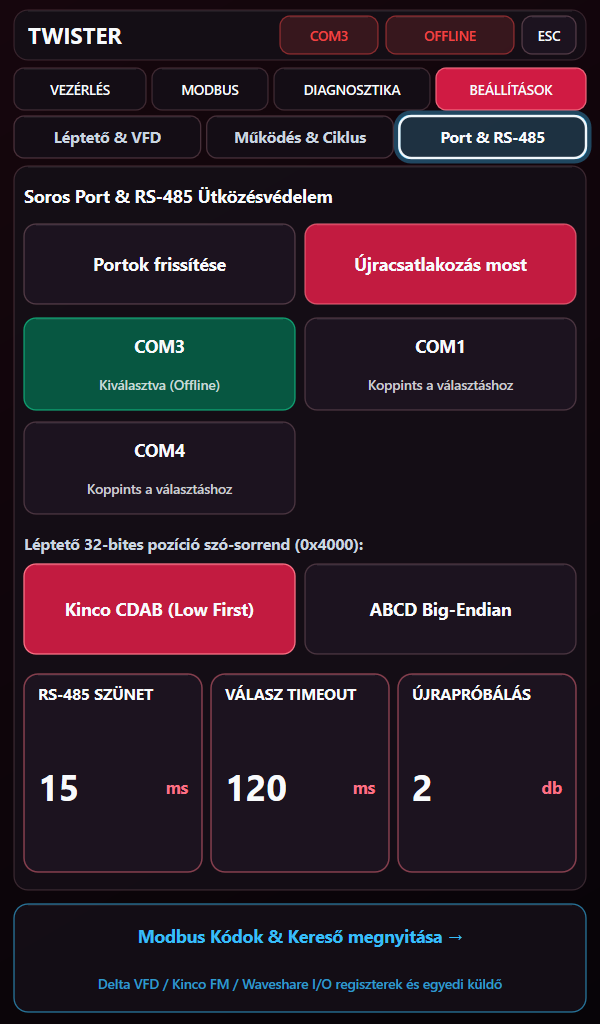
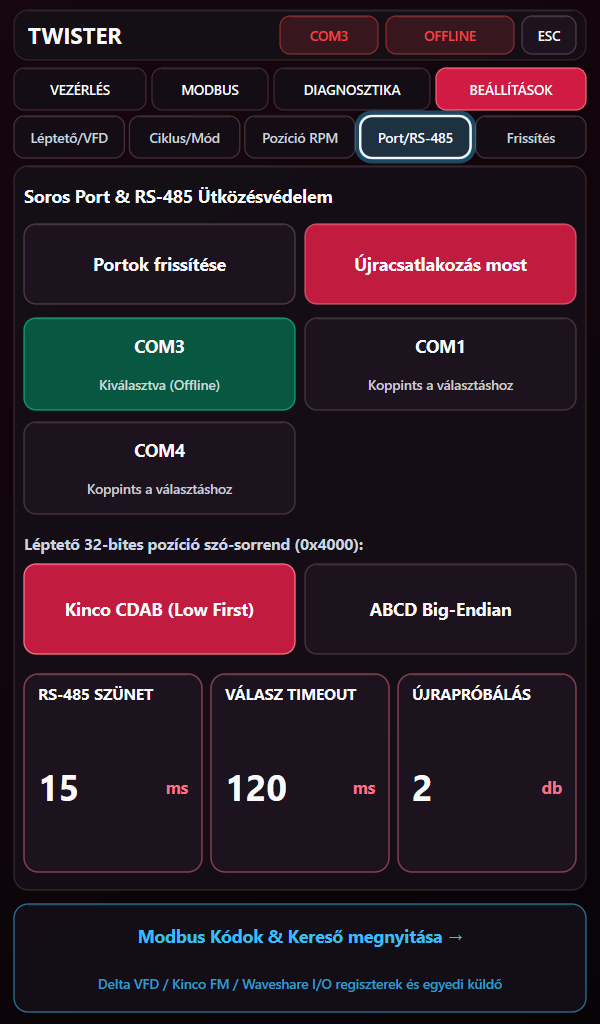
docs: publish README updates and screenshots

Changed region(s): [[0.39, 0.0938, 0.99, 0.1875], [0.06, 0.125, 0.36, 0.1562]]

diff --git a/README.md b/README.md
@@ -51,7 +51,7 @@ Nincs felugró képernyő-billentyűzet — közvetlenül a rendes billentyűzet
 | :--- | :--- |
 | **`TWISTER`** | A program neve. |
 | **`COM3`** *(port gomb)* | Zöld, ha a soros port sikeresen csatlakozva van; piros, ha nem érhető el. Rákattintva rögtön a **`BEÁLLÍTÁSOK → Port & RS-485`** aloldalra ugrik, ahol portot választhatsz. |
-| **`ZÖLD = KÜLDÉS`** *(sárga jelző)* | Csak akkor jelenik meg, ha **futó program közben** módosítottál valamit a képernyőn. A fizikai **Zöld gomb** megnyomásáig várakozik a változtatások biztonságos kiküldésével. |
+| **`ZÖLD = KÜLDÉS`** *(sárga jelző)* | Csak akkor jelenik meg, ha **futó program közben** módosítottál valamit a képernyőn. A fizikai **Zöld gomb** megnyomásáig várakozik a változtatások biztonságos kiküldésével. *(Ha épp nincs futó módosítás, de van új GitHub verzió, itt jelenik meg a kattintható **`ÚJ v...`** gomb.)* |
 | **Állapotjelző doboz** | A gép pillanatnyi állapota:<br>• **`OFFLINE`** (piros): nincs nyitott soros port<br>• **`KÉSZENLÉT`** (sárga): áll a gép, várja az indítást<br>• **`INDÍTÁS...`** (sárga): relék ellenőrzése/kapcsolása, frekiváltók bebootolása és felpörgése<br>• **`ÜZEMEL`** (zöld) / **`JÓVÁHAGYÁS?`** (sárga) / **`JÓVÁHAGYVA`** (zöld) / **`VÉGÉN LEÁLL`** (rózsaszín): forognak a motorok és megy a léptetőmotor-ciklus; **`Jóváhagyással`** módban a program vége előtti beállított időnél (`VILLOGÁS ELŐTTE`, alap `5 perc`) **`JÓVÁHAGYÁS?`** látható és villog a zöld lámpa<br>• **`JOG MÓD`** (kék): Piros + Zöld hosszú nyomva tartásával aktív lassú kézi/ellenőrző járatás<br>• **`LEÁLLÍTÁS`** (piros): motorok leállítása és léptető Home-ba küldése<br>• **`HIBA`** (piros): hiba történt (pl. port vagy meghajtó hiba — részletek a `DIAGNOSZTIKA` naplóban) |
 | **`ESC` / `FULL` gomb** | Vált teljes képernyős és ablakos mód között (ugyanazt csinálja, mint az `ESC` billentyű). |
 | **4 fő oldalválasztó fül** | **`VEZÉRLÉS`** • **`MODBUS`** • **`DIAGNOSZTIKA`** • **`BEÁLLÍTÁSOK`** — rákattintva azonnal oldalt vált (ha épp írtál egy mezőbe, előtte elmenti). |
@@ -110,18 +110,18 @@ Ez az oldal szándékosan letisztult, nagy feliratokkal és kevés gombbal, hogy
 #### A) Számítási mód váltó (legfelső két gomb)
 A három fonalparaméter közül kettőt te adsz meg, a harmadikat a gép áttételeiből automatikusan számolja a program:
 * **`Sodrat + Orsó → Henger`** *(aktív = piros)*:
-  - Te írod be az **`ALSÓ GYŰJTŐORSÓ`** fordulatszámát és a **`SODRATSZÁM`**-ot.
-  - A gép kiszámolja a **`FELSŐ ADAGOLÓ HENGER (SZÁMOLT)`** értékét:
-    $$\text{Henger RPM} = \text{Orsó RPM} / \text{Sodratszám}$$ *(egész osztás, pl. `2500 / 120 = 20 RPM`)*
+  - Te írod be az **`ALSÓ GYŰJTŐORSÓ`** fordulatszámát (`RPM`) és a **`SODRATSZÁM`**-ot.
+  - A gép kiszámolja a **`FELSŐ ADAGOLÓ HENGER (SZÁMOLT)`** értékét (`yarn/meter`):
+    $$\text{Henger (yarn/meter)} = \text{Orsó RPM} / \text{Sodratszám}$$ *(egész osztás, pl. `2500 / 120 = 20 yarn/meter`)*
 * **`Orsó + Henger → Sodrat`**:
-  - Te írod be az **`ALSÓ GYŰJTŐORSÓ`** és a **`FELSŐ ADAGOLÓ HENGER`** fordulatszámát.
+  - Te írod be az **`ALSÓ GYŰJTŐORSÓ`** (`RPM`) és a **`FELSŐ ADAGOLÓ HENGER`** (`yarn/meter`) értékét.
   - A gép kiszámolja a **`SODRAT (SZÁMOLT)`** értékét:
-    $$\text{Sodratszám} = \text{Orsó RPM} / \text{Henger RPM}$$
+    $$\text{Sodratszám} = \text{Orsó RPM} / \text{Henger (yarn/meter)}$$
 
 #### B) A 3 nagy paraméterdoboz
 * **`ALSÓ GYŰJTŐORSÓ` (`RPM`):** Mindig szerkeszthető. Ebből számolja a frekiváltó parancsot is: `((Orsó / 118) × 100)` (`0,01 Hz`-es egységben, pl. `2500 → 2100 = 21,00 Hz`).
 * **`SODRATSZÁM` (`sodrat`)** *(vagy `SODRAT (SZÁMOLT)`)*: Ha a bal oldali mód aktív, rózsaszín keretes és kattintva szerkeszthető; ha a jobb oldali mód aktív, világoskék keretes (csak kijelző, a program számolja).
-* **`FELSŐ ADAGOLÓ HENGER` (`RPM`)** *(vagy `(SZÁMOLT)`)*: Jobb oldali módban szerkeszthető; bal oldali módban automatikusan számolt (`Henger × 0,96 × 100`, pl. `20 → 1920 = 19,20 Hz`).
+* **`FELSŐ ADAGOLÓ HENGER` (`yarn/meter`)** *(vagy `(SZÁMOLT)`)*: Jobb oldali módban szerkeszthető; bal oldali módban automatikusan számolt (`Henger × 0,96 × 100`, pl. `20 → 1920 = 19,20 Hz`).
 
 #### C) A két folyamatjelző sáv (középen)
 * **`Ciklus` sáv** (`pl. 0 / 23  •  01:18`):
@@ -131,7 +131,10 @@ A három fonalparaméter közül kettőt te adsz meg, a harmadikat a gép átté
   - A szán aktuális helyzetét mutatja a **`0`** és a **`FELSŐ HATÁR`** (`4400`) között, **mínusz előjel nélkül** *(a háttérben továbbra is negatív számmal számol a Kinco vezérlőnek, de a kijelzőn mindig tisztán, előjel nélkül jelenik meg)*.
   - Ha `0x3700` valós pozíció-kiolvasás válaszol, pontosan a motor tényleges elmozdulását követi; visszafelé tekercselésnél pedig lefelé csökken a sáv.
 
-#### D) A két óriás biztonsági gomb (alul)
+#### D) Fonalőr élő sáv és a két óriás biztonsági gomb (alul)
+* **`Fonalőr: BE / KI` & élő fonalőr sáv:** A sorba kötött fonalőr lánc (`IN2` / `0x04` bemenet) élő állapota közvetlenül látható (`KÉSZ`, `BETANULÁS...`, `AKTÍV`, `JOG szünet`, vagy piros `FONALHIBA! VÉSZSTOP`), és egy érintéssel ki-/bekapcsolható:
+  - **Automatikus újratanulás minden gyártásindításkor:** amint a két frekiváltó elérte az üzemi fordulatot, a program `800 ms` alatt megtanulja a lánc stabil nyugalmi szintjét (`0` vagy `1`). Ha indításkor instabil/szakadt a fonalőr jele, hibával vészleáll.
+  - **Okos védelem üzem közben:** `JOG` közben és `JOG`-ból visszapörgés alatt szünetel (nem tilt le lazulásra), normál futásnál viszont `150 ms`-os szűrő után **szoftveres VÉSZSTOP-pal** azonnal megállítja a motorokat és a léptetőt (**Home nélkül**), piros lámpával és hibaüzenettel.
 * **`VÉSZSTOP`** *(óriás piros gomb)*:
   - Bármikor azonnal megszakít minden folyamatot:
     1. Egy paranccsal **lekapcsolja az összes relét** (`02 05 00 FF 00 00`) — elmegy a kontaktor táp és minden lámpa.
@@ -181,11 +184,12 @@ Bármelyik mezőre kattintva közvetlenül átírhatod billentyűzetről (pl. `3
     - **`VFD-M`**: Beállítja az `ACCEL REG = 0x010A` és `DECEL REG = 0x010B` címeket (`Pr.10 / Pr.11`).
     - **`MS300 / C`**: Beállítja az `ACCEL REG = 0x010C` és `DECEL REG = 0x010D` címeket (`Pr.01-12 / 01-13`).
   - **`VFD VEZÉRLŐ`** (`0x2000`), **`FREKVENCIA REG`** (`0x2001`), **`START PARANCS`** (`0x0012`), **`STOP PARANCS`** (`0x0001`), **`HIBA REG`** (`0x2100`), **`ÁLLAPOT`** (`0x2101`), **`KIMENŐ HZ`** (`0x2103`), **`ACCEL REG`** / **`DECEL REG`**.
-* **`Waveshare I/O Bemenetek & Relék (HEX)` (`4×2` nagy gomb):**
+* **`Waveshare I/O Bemenetek & Relék (HEX)`:**
   - **`BEMENET CÍM`** (`0x0000`): Digitális bemenetek kezdőcíme.
   - **`ZÖLD START BIT`** (`0x03`): Indítás / módosítás kiküldése / ciklus jóváhagyása (`IN0=1, IN1=1`).
   - **`PIROS STOP BIT`** (`0x00`): Stop gomb (`IN0=0, IN1=0`).
   - **`JOG BIT (P+Z)`** (`0x02`): Piros + Zöld hosszú gombkombináció (`IN0=0, IN1=1`).
+  - **`FONALŐR BIT`** (`0x04`): A gombok utáni 3. bemenet (`IN2`), a sorba kötött fonalőr lánc bemeneti bitmaszkja *(a gombkezelés maszkolja ezt a bitet, így nem zavarja a Start/Stop/Jog működését)*.
   - **`PIROS LÁMPA`** (`0x0000`), **`ZÖLD LÁMPA`** (`0x0001`), **`VFD TÁP RELÉ`** (`0x0003`), **`ÖSSZES RELÉ`** (`0x00FF`).
 
 #### Aloldal 3: `Egyedi Parancs`
@@ -210,7 +214,7 @@ Szervizhez, közvetlen Modbus RTU próbaküldéshez:
   Az állapotok jelentése: `RUN` = megy, `KÉSZ` = táp alatt áll, `LEFUT` = lassul megállásig, `STOP` = áll, `HIBA` = frekiváltó hibajelzés, `--` = kikapcsolt táp / nem válaszol.
 
 #### `IN0` – `IN7` bemenet-visszajelzők
-A 8 optocsatolt bemenet állapota valós időben (zöld = bemenet aktív/zárt, sötét = nyitott).
+A 8 optocsatolt bemenet állapota valós időben (zöld = bemenet aktív/zárt, sötét = nyitott; a **`*`** jelölésű csatorna, alapból **`IN2*`**, a fonalőr bemenete).
 
 #### A 6 tesztgomb (külön-külön kipróbáláshoz)
 * **`Poz +200` (`Küldés`):** Elküldi a `+200`-as célpozíciót a léptetőnek (önmagában még nem indítja a motort, vagy előkészíti a pozíciót).
@@ -231,9 +235,9 @@ A 8 optocsatolt bemenet állapota valós időben (zöld = bemenet aktív/zárt, 
 
 ---
 
-### 4. oldal: `BEÁLLÍTÁSOK` *(3 tágas aloldalra bontva)*
+### 4. oldal: `BEÁLLÍTÁSOK` *(5 tágas aloldalra bontva)*
 
-A kényelmes, nagy gombos érintéshez minden paraméter 3 átlátható aloldalon kapott helyet:
+A kényelmes, nagy gombos érintéshez minden paraméter 5 átlátható aloldalon kapott helyet:
 
 #### Aloldal 1: `Léptető & VFD`
 
@@ -253,17 +257,19 @@ A kényelmes, nagy gombos érintéshez minden paraméter 3 átlátható aloldalo
   - **`ORSÓ FELFUTÁS` / `ORSÓ LEFUTÁS`** (`2000 ms`): Alsó orsó fel- és lefutási ideje (`0 = VFD alap`).
   - **`HENGER FELFUTÁS` / `HENGER LEFUTÁS`** (`2000 ms`): Felső henger fel- és lefutási ideje (`0 = VFD alap`).
 
-#### Aloldal 2: `Működés & Ciklus`
+#### Aloldal 2: `Ciklus & Mód`
 
-![BEÁLLÍTÁSOK Működés, Jóváhagyás és Visszafutás](docs/images/beallitasok_visszafele.png)
+![BEÁLLÍTÁSOK Ciklus és Mód](docs/images/beallitasok_visszafele.png)
 
-* **`Állapotgép, Home & Kijelző` (`3×2` kapcsoló):**
+* **`Állapotgép, Fonalőr, Home & Kijelző`:**
   - **`Léptető állapotgép (0x3200): BE / KI`:** `BE` esetén `0x3200` + `0x3700` figyelés, válaszkimaradáskor automatikus váltás `Tartalék lépésidő`-re.
   - **`VFD állapotgép (0x2101): BE / KI`:** `BE` esetén tényleges beindulás, célfordulat-elérés és `0 Hz` lefutás figyelése.
   - **`Home leállításkor: BE / KI`:** Leállításkor előbb Home-ba küldi a léptetőt.
   - **`Home mód: Pozíció 0` vs `CiA-402 (0x3500)`:** Pozíció nullázás (`0x4000=0`) vagy végálláskereső homing (`0x3500=6`).
   - **`Teljes képernyőn indul: BE / KI`:** Automatikus fullscreen indításkor.
   - **`Tartalék lépésidő: 3000 ms`:** Rákattintva szerkeszthető tartalék várakozási idő, ha `0x3200` nem válaszol.
+  - **`Fonalőr: BE / KI`:** Ki- vagy bekapcsolja a sorba kötött fonalőr figyelését *(minden indításnál újra betanulja a jó jelszintet, JOG alatt szünetel, hiba esetén Vészstoppal áll meg Home nélkül)*.
+  - **`TANÍTÁS IDŐ` (`800 ms`) & `SZŰRŐ IDŐ` (`150 ms`):** A VFD felpörgése utáni tanulási ablak hossza (`200..5000 ms`), illetve a futás közbeni zavar-/prellszűrő késleltetése (`40..3000 ms`).
 * **`Ciklus Vége, Jóváhagyás & Visszafutás`:**
   - **`Ciklus végén (felső határ elérésekor):` (3 nagy gomb):**
     1. **`Leáll (1:1)`** *(zöld)*: 1 menet után biztonságosan leáll + Home. *(Zöld lámpa nem villog.)*
@@ -280,7 +286,20 @@ A kényelmes, nagy gombos érintéshez minden paraméter 3 átlátható aloldalo
     - **`Teljesen nulláig` (`0`):** `0 ↔ 4400` teljes oda-vissza ciklus.
     - **`Középpontig` (`2200`):** Első menetben `0 → 4400`, utána folyamatosan **`2200 ↔ 4400`** között jár oda-vissza.
 
-#### Aloldal 3: `Port & RS-485`
+#### Aloldal 3: `Pozíció RPM`
+
+![BEÁLLÍTÁSOK Pozíció-alapú Orsó Fordulat](docs/images/beallitasok_zona.png)
+
+Opcionális sebességzóna, amellyel beállítható, hogy egy elért szánpozíció felett másik fordulatszámon forogjon az orsó:
+* **`Felső pozíció fordulat: BE / KI`:** Egy gombnyomással ki- vagy bekapcsolható (alapból `KI`).
+* **`VÁLTÁS POZÍCIÓ` (`1000 poz`):** Ettől a pozíciótól felfelé egészen a `FELSŐ HATÁR`-ig (`1000 – 4400` között) lép érvénybe a másik fordulatszám.
+* **`ZÓNA ORSÓ RPM` (`2000 RPM`):** Az alsó gyűjtőorsó fordulatszáma a felső zónában; a **felső adagoló hengert az aktív sodratszám alapján automatikusan újraszámolja** hozzá a program (`pl. 2000 / 120 = 16 yarn/meter`).
+* **Működés felfelé és visszafelé:**
+  - `0 → 999 poz` között az alap fordulattal (`pl. 2500 RPM`) megy; **`1000 poz` elérésekor átvált `2000 RPM`-re** egészen `4400`-ig.
+  - **Visszafelé módban fordított logikával:** fentről (`4400`) indulva `1000`-ig továbbra is `2000 RPM`-mel halad (mert még a `[1000..4400]` zónában van), majd **`1000` alá visszaérve visszavált az alap `2500 RPM`-re** (`0`-ig).
+  - Menet közbeni `Zöld gomb`-os módosítás és `JOG` elengedés után is azonnal az aktuális pozíciónak megfelelő zónafordulatra áll be.
+
+#### Aloldal 4: `Port & RS-485`
 
 ![BEÁLLÍTÁSOK Soros Port és RS-485](docs/images/beallitasok_port.png)
 
@@ -289,6 +308,32 @@ A kényelmes, nagy gombos érintéshez minden paraméter 3 átlátható aloldalo
 * **`Kinco CDAB (Low First)` vs `ABCD Big-Endian`:** 32-bites léptető pozícióregiszterek szó-sorrendje (`Kinco FM`-hez `CDAB` az alapértelmezett).
 * **`RS-485 SZÜNET` (`15 ms`) / `VÁLASZ TIMEOUT` (`120 ms`) / `ÚJRAPRÓBÁLKOZÁS` (`2 db`):** Ütközésvédelem és automatikus csomag-újraküldés beállításai.
 * **`Modbus Kódok & Kereső megnyitása →`:** Egygombos átugrás a `MODBUS` fülre.
+
+#### Aloldal 5: `Frissítés` *(GitHub Auto-Update, Patch Notes & Visszaállás)*
+
+![BEÁLLÍTÁSOK GitHub Frissítés és Verzió-előzmények](docs/images/beallitasok_frissites.png)
+
+![Patch Notes és Visszaállási Megerősítő Ablak](docs/images/frissites_modal.png)
+
+* **`GITHUB REPO`:** Add meg a publikus GitHub repódat `tulajdonos/repo` formában (vagy illeszd be a teljes `https://github.com/...` címet **`Ctrl+V`**-vel; az `twister_config.ini`-ben a `github_repo=` sor tárolja).
+* **`Indításkor ellenőriz: BE / KI`:** Bekapcsolva minden indításkor csendben ellenőrzi a legújabb GitHub Release-t, és ha van frissebb verzió (álló gép mellett), megjeleníti az **Újdonságok / Patch Notes** ablakot.
+* **Kiadás ellenőrzése és biztonság:**
+  - A **`build-exe.bat`** minden fordításkor elkészíti a **`dist\TwisterControl.exe`** mellett a **`dist\version.json`** fájlt is pontos verzióval és **SHA-256** ellenőrzőösszeggel *(ha létezik `release_notes.txt`, annak szövegét is beleteszi; különben a GitHub Release leírását jeleníti meg Patch Notes-ként)*.
+  - Csere előtt ellenőrzi az SHA-256-ot és a Windows PE fejlécet, majd **futó gép mellett letiltja a cserét**.
+* **Helyi verziómentés (`.bak` + `versions\` mappa) és visszaállás:**
+  - Minden frissítés vagy visszaállás előtt a jelenlegi futó EXE automatikusan elmentődik **`TwisterControl.bak.exe`** néven és a **`versions\`** mappába is (verziószámmal, dátummal, SHA-256-tal és Patch Notes-szal).
+  - A **`Mentett korábbi verziók`** listában bármelyik korábbi verzió melletti **`Visszaállás`** gombbal álló gépnél biztonságosan visszaválthatsz rá.
+  - A **`twister_config.ini`** és a **`debug.txt`** minden frissítésnél és visszaállásnál érintetlen marad.
+
+* **Szinkron VFD-léptetőmotor lefutás (`DecelerateVfdsWithSyncedStepper`):**
+  - Minden leállásnál (normál ciklusvég, Stop, **VÉSZSTOP**, Fonalőr vagy VFD/léptető hiba) a két frekiváltó azonnal megkapja a `Stop` (`0x2000 = 0x0001`) parancsot, miközben a léptetőmotor az aktív menetirány mentén tovább mozog mindaddig, amíg **mindkét Delta VFD el nem éri a `0 Hz / Stop` állapotot** (`0x2101` + `0x2103`).
+  - Amint a frekiváltók megálltak, a program azonnal helyben megállítja és tiltja a léptetőmotort (`0x010F` Halt + `0x000F` Disable), majd kiolvassa a valós `0x3700` pozíciót.
+* **Menet közbeni leállás folytatása (`twister_resume.ini`) és felugró ablakos reteszelés:**
+  - Ha a futás **menet közben** megszakad (Stop, **VÉSZSTOP**, Fonalőr vagy egyéb hiba), a gép **nem végez Home-ot**, hanem elmenti a pontos `0x3700` pozíciót és menetirányt a `twister_resume.ini` fájlba. Normál ciklusvég esetén (amikor Home is lefut) a mentés törlődik.
+  - Mentett megszakadt állapotnál a fejlécben **`FOLYTATHATÓ`** gomb jelenik meg, és a következő **Zöld gombos** vagy UI indításnál felugrik a **`MEGSZAKADT FUTÁS`** választóablak (`ÚJRAKEZDÉS` – előbb Home 0-ra, `FOLYTATÁS` – pontosan ugyanott és abba az irányba tovább, `MÉGSE (ESC)`).
+  - **Indítási retesz felugró ablaknál:** Amíg bármelyik felugró ablak (`MEGSZAKADT FUTÁS`, `PC KI`, `Frissítés / Visszaállás`) nyitva van, sem a fizikai **Zöld Start / JOG** gomb, sem az UI indítás/léptetés nem indíthatja el a gépet.
+
+![Megszakadt futás választóablak](docs/images/resume_modal.png)
 
 ---
 
